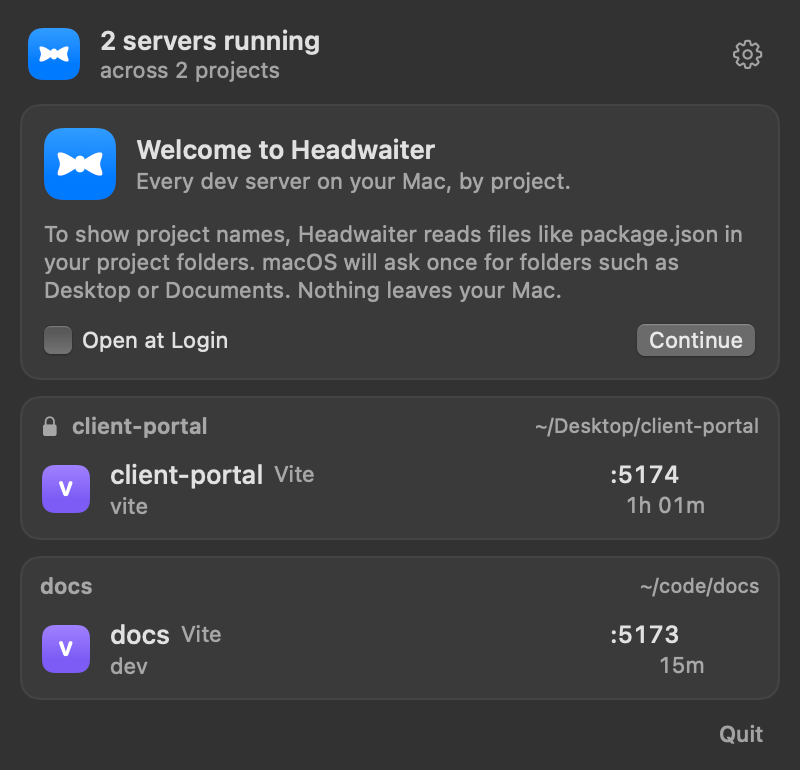
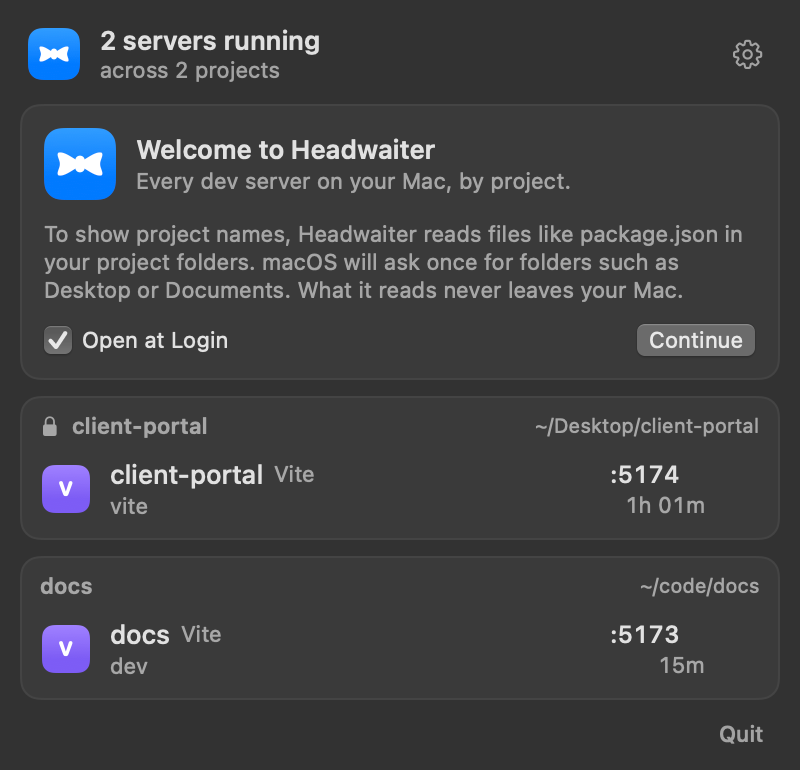
Update Headwaiter page for beta and update checks
The app now contacts GitHub for update checks, so the privacy copy, the
first-run card images and the alt text no longer say nothing leaves your
Mac. Also adds the beta and folder-access lines and a new page title.

Changed region(s): [[0.375, 0.3429, 0.8438, 0.4052], [0.0625, 0.4364, 0.0938, 0.4675]]

diff --git a/app/headwaiter/page.tsx b/app/headwaiter/page.tsx
@@ -10,7 +10,7 @@ import { LivePopover, MenuBarItem } from "./_demo";
 import { Folder, Shot, TitleBar, Wallpaper } from "./_parts";
 
 const APP_NAME = "Headwaiter";
-const TITLE = "Headwaiter: dev servers in your Mac's menu bar";
+const TITLE = "Headwaiter: keep track of the servers running on your Mac";
 const DESCRIPTION =
   "Keep track of the servers running on your Mac. A free, open source menu bar app for developers.";
 
@@ -99,7 +99,9 @@ export default function Headwaiter() {
                 View on GitHub
               </a>
             </div>
-            <p className="hw-small">Free and open source (MIT). macOS&nbsp;15 or later, Apple silicon and Intel.</p>
+            <p className="hw-small">
+              Free and open source (MIT). Beta. macOS&nbsp;15 or later, Apple silicon and Intel.
+            </p>
           </div>
           <div className="hw-pop">
             {/* Narrow screens: the popover follows the text, so it hangs from its own piece of menu bar. */}
@@ -145,15 +147,18 @@ export default function Headwaiter() {
                   <h3>Private</h3>
                 </TitleBar>
                 <div className="hw-privacy">
-                  <p>Nothing leaves your Mac. No account, no analytics.</p>
-                  <p>This website uses Vercel Web Analytics, which is cookieless; the app itself sends nothing.</p>
+                  <p>What Headwaiter sees stays on your Mac. No account, no analytics.</p>
+                  <p>
+                    This website uses Vercel Web Analytics, which is cookieless; the app has no analytics and contacts
+                    GitHub only for updates.
+                  </p>
                 </div>
                 <div className="hw-first">
                   <Shot
                     className="hw-shot"
                     light={welcomeLight}
                     dark={welcomeDark}
-                    alt="Headwaiter's first-run card. It says the app reads files like package.json to show project names, and that nothing leaves your Mac."
+                    alt="Headwaiter's first-run card. It says the app reads files like package.json to show project names, and that what it reads never leaves your Mac."
                     lazy
                   />
                 </div>
@@ -225,10 +230,18 @@ export default function Headwaiter() {
               </div>
             </div>
             <div className="hw-how">
-              <p>Download the disk image, open it and drag Headwaiter to Applications. It&apos;s signed and notarized by Apple.</p>
+              <p>
+                Download the disk image, open it and drag Headwaiter to Applications. It&apos;s signed and notarized by
+                Apple.
+              </p>
+              <p>Allow folder access when macOS asks, so it can show your project names.</p>
               <a className="hw-btn hw-btn-1" href={DOWNLOAD}>
                 Download for Mac
               </a>
+              <p>
+                Headwaiter is in beta. It can update itself: it asks before checking automatically and before installing
+                anything. Update checks contact GitHub.
+              </p>
               <p>
                 Prefer to build it? You need Xcode&nbsp;16 or later. <a href={BUILD}>The README has the steps.</a>
               </p>
